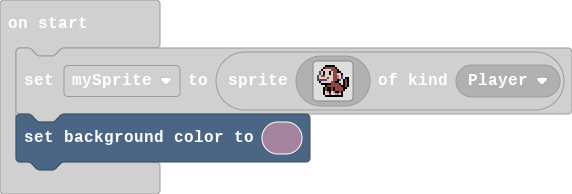
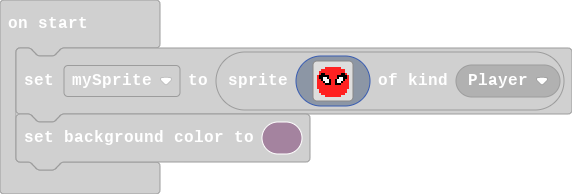
Update pxt.json, main.blocks, main.ts, images.g.jres, images.g.ts

Changed region(s): [[0.0, 0.5567, 0.5647, 0.8969], [0.5052, 0.2784, 0.6538, 0.5567]]

diff --git a/images.g.ts b/images.g.ts
@@ -1,0 +1,44 @@
+// Auto-generated code. Do not edit.
+namespace myImages {
+
+    helpers._registerFactory("image", function(name: string) {
+        switch(helpers.stringTrim(name)) {
+            case "image1":
+            case "spiderman":return img`
+. . . . . . . . . . . . . . . . 
+. . . . 2 2 2 2 2 2 2 2 . . . . 
+. . 2 2 2 2 2 2 2 2 2 2 2 2 . . 
+. 2 2 2 2 2 2 2 2 2 2 2 2 2 . . 
+. 2 f f 2 2 2 2 2 2 2 2 f f 2 . 
+2 f f f f f 2 2 2 2 f f f f f 2 
+2 f f 1 1 f 2 2 2 2 f 1 1 f f 2 
+2 2 f 1 1 1 f 2 2 f 1 1 1 f 2 2 
+2 2 2 f 1 1 f 2 2 f 1 1 f 2 2 2 
+2 2 2 2 f f f 2 2 f f f 2 2 2 2 
+2 2 2 2 2 2 2 2 2 2 2 2 2 2 2 2 
+2 2 2 2 2 2 2 2 2 2 2 2 2 2 2 2 
+. 2 2 2 2 2 2 2 2 2 2 2 2 2 2 . 
+. 2 2 2 2 2 2 2 2 2 2 2 2 2 2 . 
+. . 2 2 2 2 2 2 2 2 2 2 2 2 . . 
+. . . . 2 2 2 2 2 2 2 2 . . . . 
+`;
+        }
+        return null;
+    })
+
+    helpers._registerFactory("animation", function(name: string) {
+        switch(helpers.stringTrim(name)) {
+
+        }
+        return null;
+    })
+
+    helpers._registerFactory("song", function(name: string) {
+        switch(helpers.stringTrim(name)) {
+
+        }
+        return null;
+    })
+
+}
+// Auto-generated code. Do not edit.

diff --git a/main.ts b/main.ts
@@ -1,19 +1,2 @@
-let mySprite = sprites.create(img`
-    . . . . f f f f f . . . . . . . 
-    . . . f e e e e e f . . . . . . 
-    . . f d d d d e e e f . . . . . 
-    . c d f d d f d e e f f . . . . 
-    . c d f d d f d e e d d f . . . 
-    c d e e d d d d e e b d c . . . 
-    c d d d d c d d e e b d c . f f 
-    c c c c c d d d e e f c . f e f 
-    . f d d d d d e e f f . . f e f 
-    . . f f f f f e e e e f . f e f 
-    . . . . f e e e e e e e f f e f 
-    . . . f e f f e f e e e e f f . 
-    . . . f e f f e f e e e e f . . 
-    . . . f d b f d b f f e f . . . 
-    . . . f d d c d d b b d f . . . 
-    . . . . f f f f f f f f f . . . 
-    `, SpriteKind.Player)
+let mySprite = sprites.create(assets.image`spiderman`, SpriteKind.Player)
 scene.setBackgroundColor(11)
